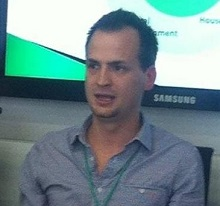
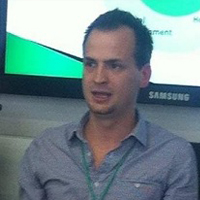
So I fixed the team pics (they were resizing weird on mobile)
Added page descriptions (before it still said lorem ipsum)

Put in the youtube links and some of the social media ones

diff --git a/IEinEthiopia/index.html b/IEinEthiopia/index.html
@@ -103,7 +103,7 @@
             <div class="row">
                 <div class="col-lg-12 text-center">
                     <h2 class="section-heading">What We Do</h2>
-                    <h3 class="section-subheading text-muted">Lorem ipsum dolor sit amet consectetur.</h3>
+                    <h3 class="section-subheading text-muted">So what is IE doing in Ethiopia?</h3>
                 </div>
             </div>
 
@@ -113,17 +113,13 @@
                         <ol class="carousel-indicators">
                             <li data-target="#myCarousel" data-slide-to="0" class="active"></li>
                             <li data-target="#myCarousel" data-slide-to="1" class=""></li>
-                            <li data-target="#myCarousel" data-slide-to="2" class=""></li>
                         </ol>
                         <div class="carousel-inner">
                             <div class="item active">
-                                <iframe src="http://www.youtube.com/embed/-w-58hQ9dLk?controls=0" allowfullscreen="" class="videoframe"></iframe>
+                                <iframe class="videoframe" src="https://www.youtube.com/embed/aAgEp3VVcz0?rel=0" frameborder="0" allowfullscreen></iframe>
                             </div>
                             <div class="item">
-                                <iframe src="http://www.youtube.com/embed/SEBLt6Kd9EY?controls=0" allowfullscreen="" class="videoframe"></iframe>
-                            </div>
-                            <div class="item">
-                                <iframe src="http://www.youtube.com/embed/IkTw7J-hGmg?controls=0" allowfullscreen="" class="videoframe"></iframe>
+                                <iframe class="videoframe" src="https://www.youtube.com/embed/u6IIC7mbu6M?rel=0" frameborder="0" allowfullscreen></iframe>
                             </div>
                         </div>
                         <a class="left carousel-control videoframecontrols" href="#carousel-example-generic" data-slide="prev">
@@ -309,7 +305,7 @@
             <div class="row">
                 <div class="col-lg-12 text-center">
                     <h2 class="section-heading">Our Story</h2>
-                    <h3 class="section-subheading text-muted">Lorem ipsum dolor sit amet consectetur.</h3>
+                    <h3 class="section-subheading text-muted">How IE in Ethiopia went from an idea to a reality.</h3>
                 </div>
             </div>
             <div class="row">
@@ -379,23 +375,23 @@
                 </div>
             </div>
             <div class="row">
-                <div class="col-sm-4 col-team">
+                <div class="col-sm-6 col-team">
                     <div class="team-member">
                         <img src="img/team/1.jpg" class="img-responsive img-circle" alt="">
                         <h4>Gayle Allard</h4>
                         <p class="text-muted">Professor of Economics at IE University</p>
-                        <p class="text-muted">
+                        <p>Gayle Allard goes on regular trips to Ethiopia to keep up with the Limitless project. She initiated the MBA program there, and was the driving force behind IE's involvement in Ethiopia.</p>
                         <ul class="list-inline social-buttons">
                             <li><a href="#"><i class="fa fa-twitter"></i></a>
                             </li>
-                            <li><a href="#"><i class="fa fa-facebook"></i></a>
+                            <li><a href="https://www.facebook.com/gayle.j.allard"><i class="fa fa-facebook"></i></a>
                             </li>
-                            <li><a href="#"><i class="fa fa-linkedin"></i></a>
+                            <li><a href="http://es.linkedin.com/pub/gayle-allard/0/381/547"><i class="fa fa-linkedin"></i></a>
                             </li>
                         </ul>
                     </div>
                 </div>
-                <div class="col-sm-4 col-team">
+                <div class="col-sm-6 col-team">
                     <div class="team-member">
                         <img src="img/team/2.jpg" class="img-responsive img-circle" alt="">
                         <h4>David Benedict</h4>

diff --git a/IEinEthiopia/css/agency.css b/IEinEthiopia/css/agency.css
@@ -99,9 +99,15 @@ h6 {
 .container{
     max-width: 1000px;
 }
-
+@media(max-width:767){
 .col-team {
 width: 50%;
+}
+}
+@media(max-width:767){
+.col-team {
+width: 100%;
+}
 }
 
 .bg-darkest-gray {
